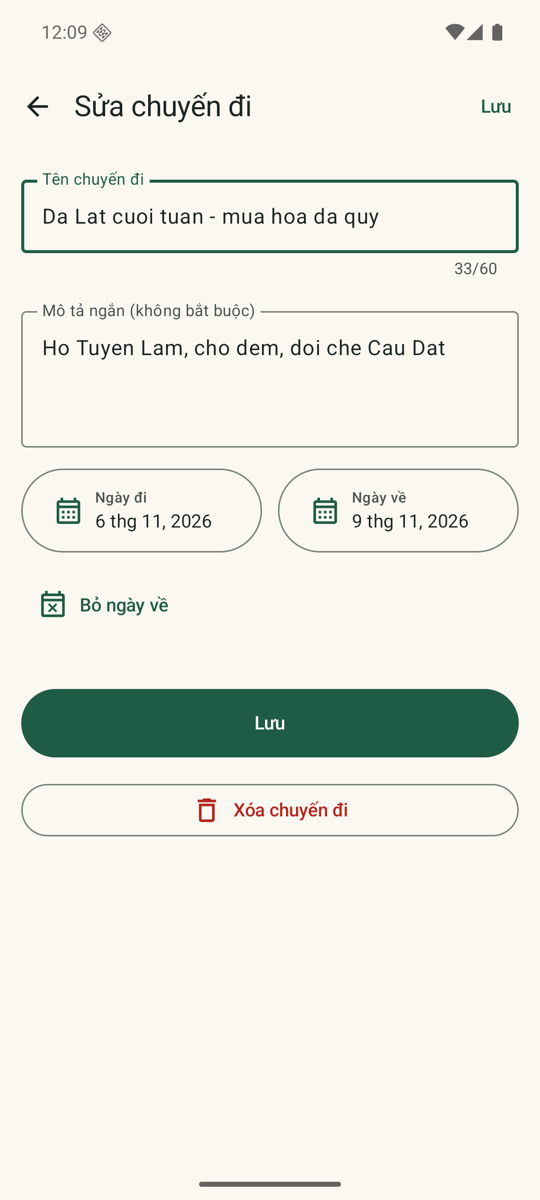
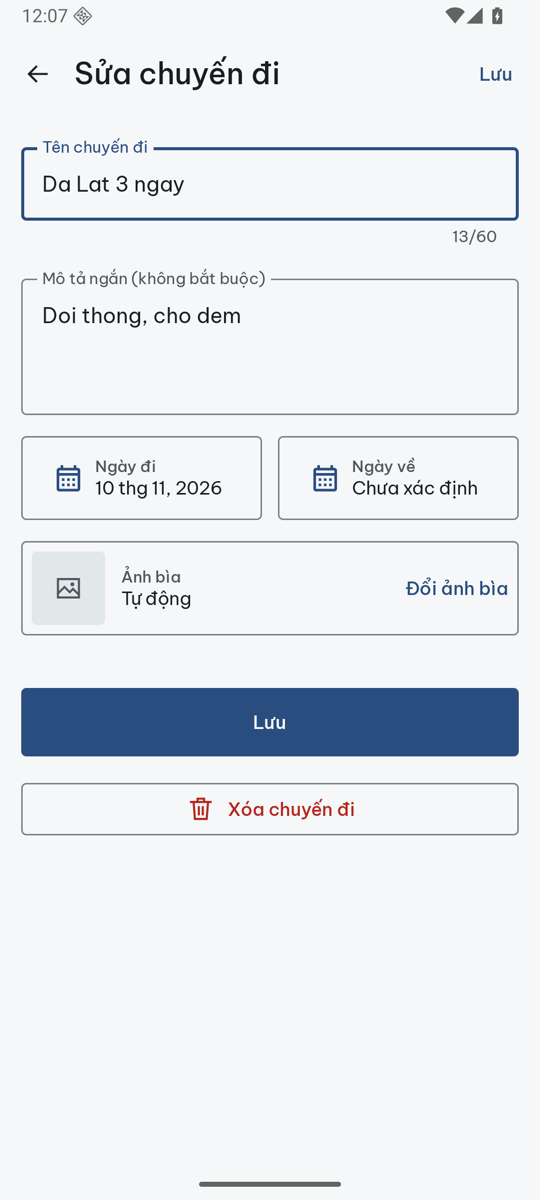
Retake top-level screenshots in the atlas look (B4)

diff --git a/docs/03-screens.md b/docs/03-screens.md
@@ -709,16 +709,20 @@ B3, signature parts (docs/08 §5): `b3-before-*` from main at ecef295 (the B2 lo
 
 Still Material (docs/08 §10): leg-mode badge glyphs and small in-row icons; satellite label halo.
 
+Retaken in the atlas look (B4, separate AVD emulator-5594, debug sample data): 01–06, 08–21, 23–26.
+Still the old green/clay look: 07 (the system Photo Picker, no app UI), 22 and 29–30 (need pushed
+EXIF photos), 27–28 (a historical upgrade from the v1 build).
+
 | File | Shows |
 | --- | --- |
 | 01-trip-list-empty.png | first run, empty list |
 | 02-trip-create.png | create form filled in |
-| 03-trip-edit.png | edit form with changed title, delete button |
+| 03-trip-edit.png | edit form with changed title, cover row "Ảnh bìa · Tự động" |
 | 04-trip-list.png | list with the two sample trips (refreshed after the UX base batch) |
-| 05-location-picker.png | picker on the OpenFreeMap basemap, pin near Du Già |
+| 05-location-picker.png | picker on the OpenFreeMap basemap from a new Hà Giang step: search field, trip-step chips, own centre needle |
 | 06-step-create.png | the empty new-step form (name, location, date and time, note, photos) |
 | 07-photo-picker.png | Android Photo Picker with 3 selected |
-| 08-trip-detail.png | detail: header map with route, stats (điểm dừng, ảnh, km, ngày), track row, suggestions (layout before the declutter batch) |
+| 08-trip-detail.png | detail: header map with route, title plate, km readout "139 km đường chim bay" + scale bar, counts, collapsed GPS card, Ngày 1 |
 | trip-detail-declutter/trip-detail-collapsed.png | Hà Giang detail: stats with "km / đường chim bay", collapsed "Hành trình GPS · 1 hành trình · 2 gợi ý", "Ngày 1" visible, one FAB "Thêm", Be Vietnam Pro title |
 | trip-detail-declutter/gps-card-expanded.png | the card open on an ended trip: hint, "Tạo chuyến mới và ghi", track row, suggestions |
 | trip-detail-declutter/gps-card-scrolled.png | card just opened (scrolled to the top): title in the bar, FAB shrunk to "+", suggestion cards "gần TP Hà Giang, 9,7 km" with "Tạo điểm dừng ở đây" |
@@ -728,18 +732,18 @@ Still Material (docs/08 §10): leg-mode badge glyphs and small in-row icons; sat
 | 11-step-edit.png | edit step: mini map, location, date and time, note, photo with cover label |
 | 12-photo-viewer.png | full-screen viewer 2 / 3 |
 | 13-step-delete-confirm.png | delete step confirm |
-| 14-photos-after-restart.png | trip detail after force-stop + relaunch: photos still there |
+| 14-photos-after-restart.png | trip detail after force-stop + relaunch, scrolled to the timeline: photos still there |
 | 15-trip-list-sample.png | list with the debug sample trips |
 | 16-sample-hagiang-map.png | Hà Giang loop at country zoom (pins/badges shrink, short legs drop their badges) |
 | 17-trip-delete-confirm.png | delete trip confirm with counts |
 | 18-trip-list-after-delete.png | list after the trip was deleted |
 | 19-trip-validation.png | "Hãy đặt tên cho chuyến đi" on empty title |
-| 20-trip-map-pins-above-cards.png | step 3 selected: camera flew to it above the cards, larger pin with gold halo |
+| 20-trip-map-pins-above-cards.png | step 3 selected: camera flew to it above the cards, larger pin with a bright chàm halo, card 3 with a chàm edge |
 | 21-date-picker-vietnamese.png | date picker in Vietnamese on an English-language emulator |
 | 22-photo-exif-rotated-upright.png | 4800×3600 photo with EXIF orientation 6 + GPS, stored and shown upright |
-| 23-trip-map-leg-modes.png | Hà Giang trip map fitted above the cards: cased ground legs, dotted walk, dashed flight arc, badges |
-| 24-trip-map-legs-zoomed.png | zoomed to town scale: wider cased lines, dotted walk leg 4→5 |
-| 25-leg-mode-sheet.png | leg mode sheet "Từ … đến …"; the leg (gold) framed above it |
+| 23-trip-map-leg-modes.png | Hà Giang trip map fitted above the cards: cased chàm legs with mode badges (the sample is all xe máy), ink GPS track, square map buttons |
+| 24-trip-map-legs-zoomed.png | zoomed to town scale near Quản Bạ: wider cased lines, the ink track beside the route |
+| 25-leg-mode-sheet.png | leg mode sheet "Từ TP Hà Giang đến Cổng Trời Quản Bạ" over the trip detail, "Xe máy" ticked |
 | 26-my-map.png | "Bản đồ của tôi": all trips in their colours, totals, trip cards |
 | route-redraw/before-*.png, after-*.png | the same Hà Giang views on main@55b3966 (raster OSM) and after the route redraw: country, region, city, flight, selected, trip-detail, mymap (+ after-leg-selected) |
 | 27-upgrade-before-v1.png | main@b07fcf6 build (database v1) with sample data, before the upgrade |
